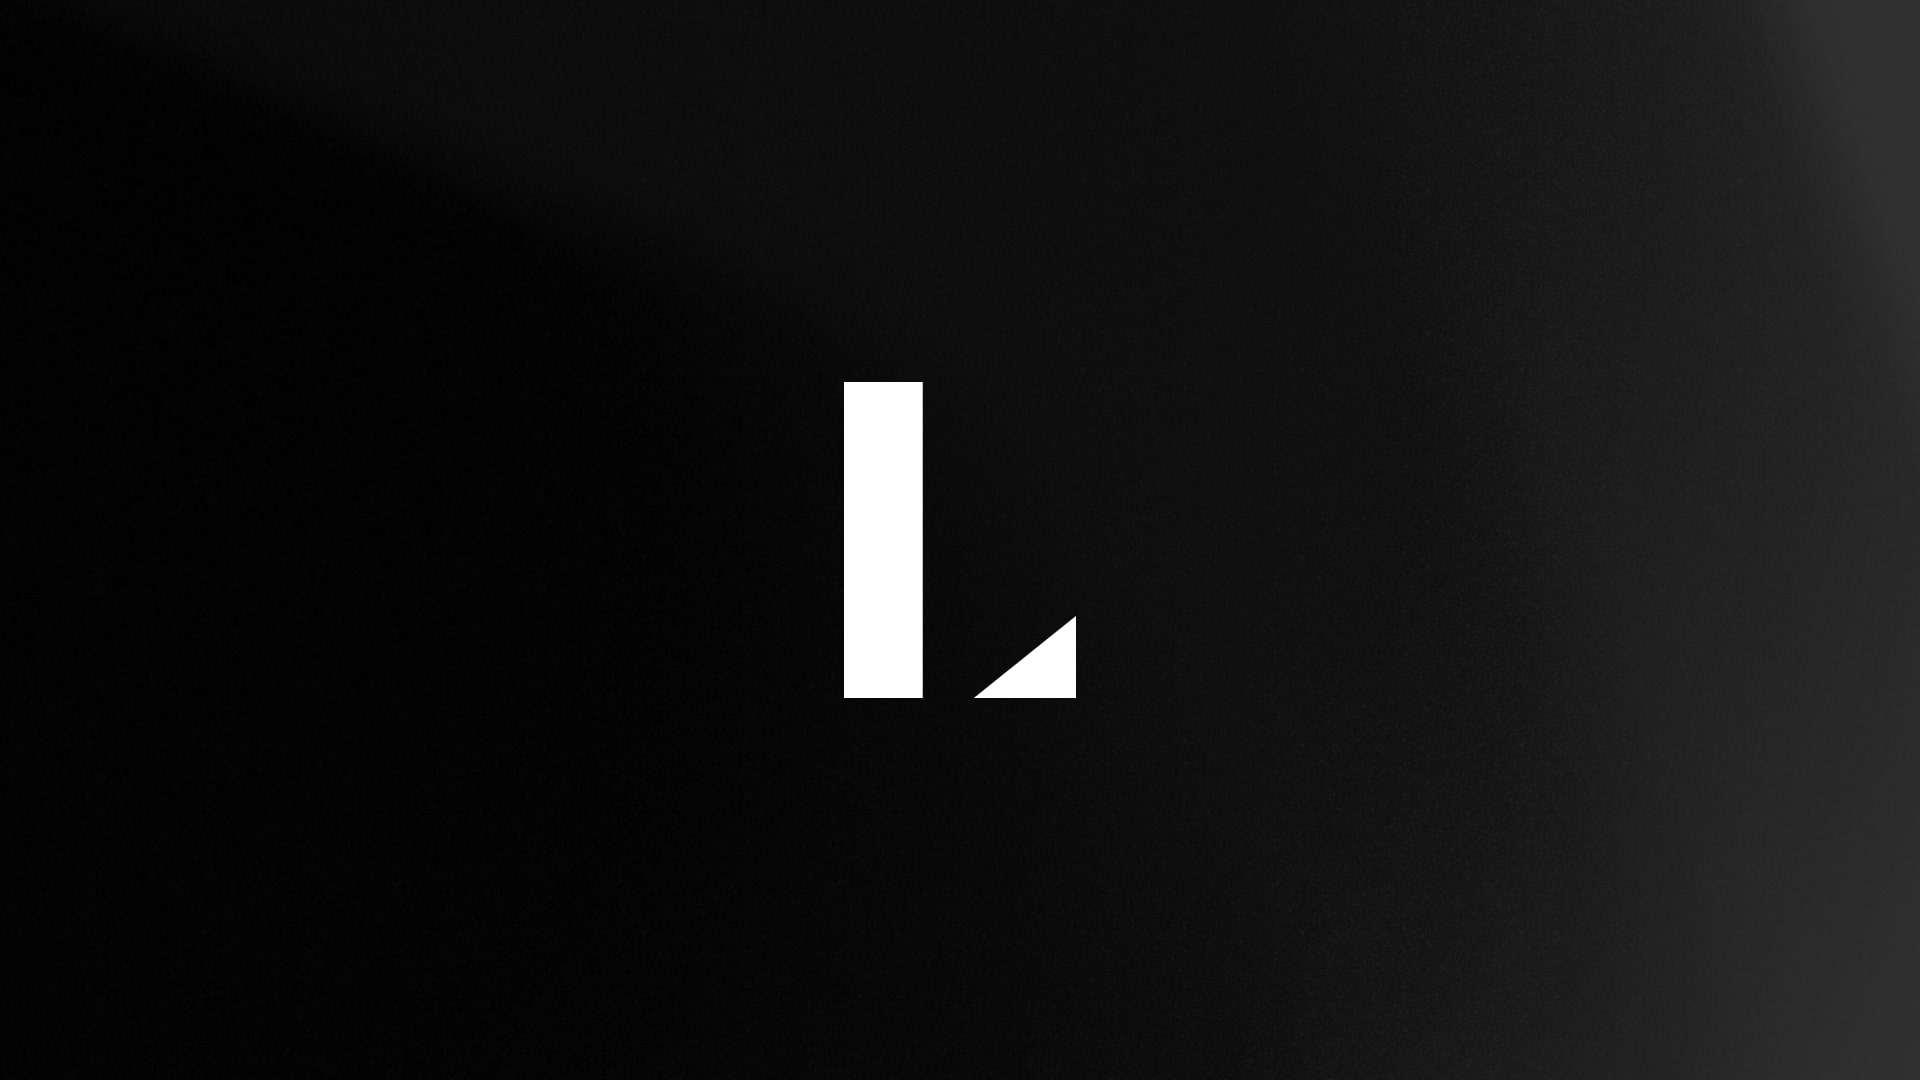
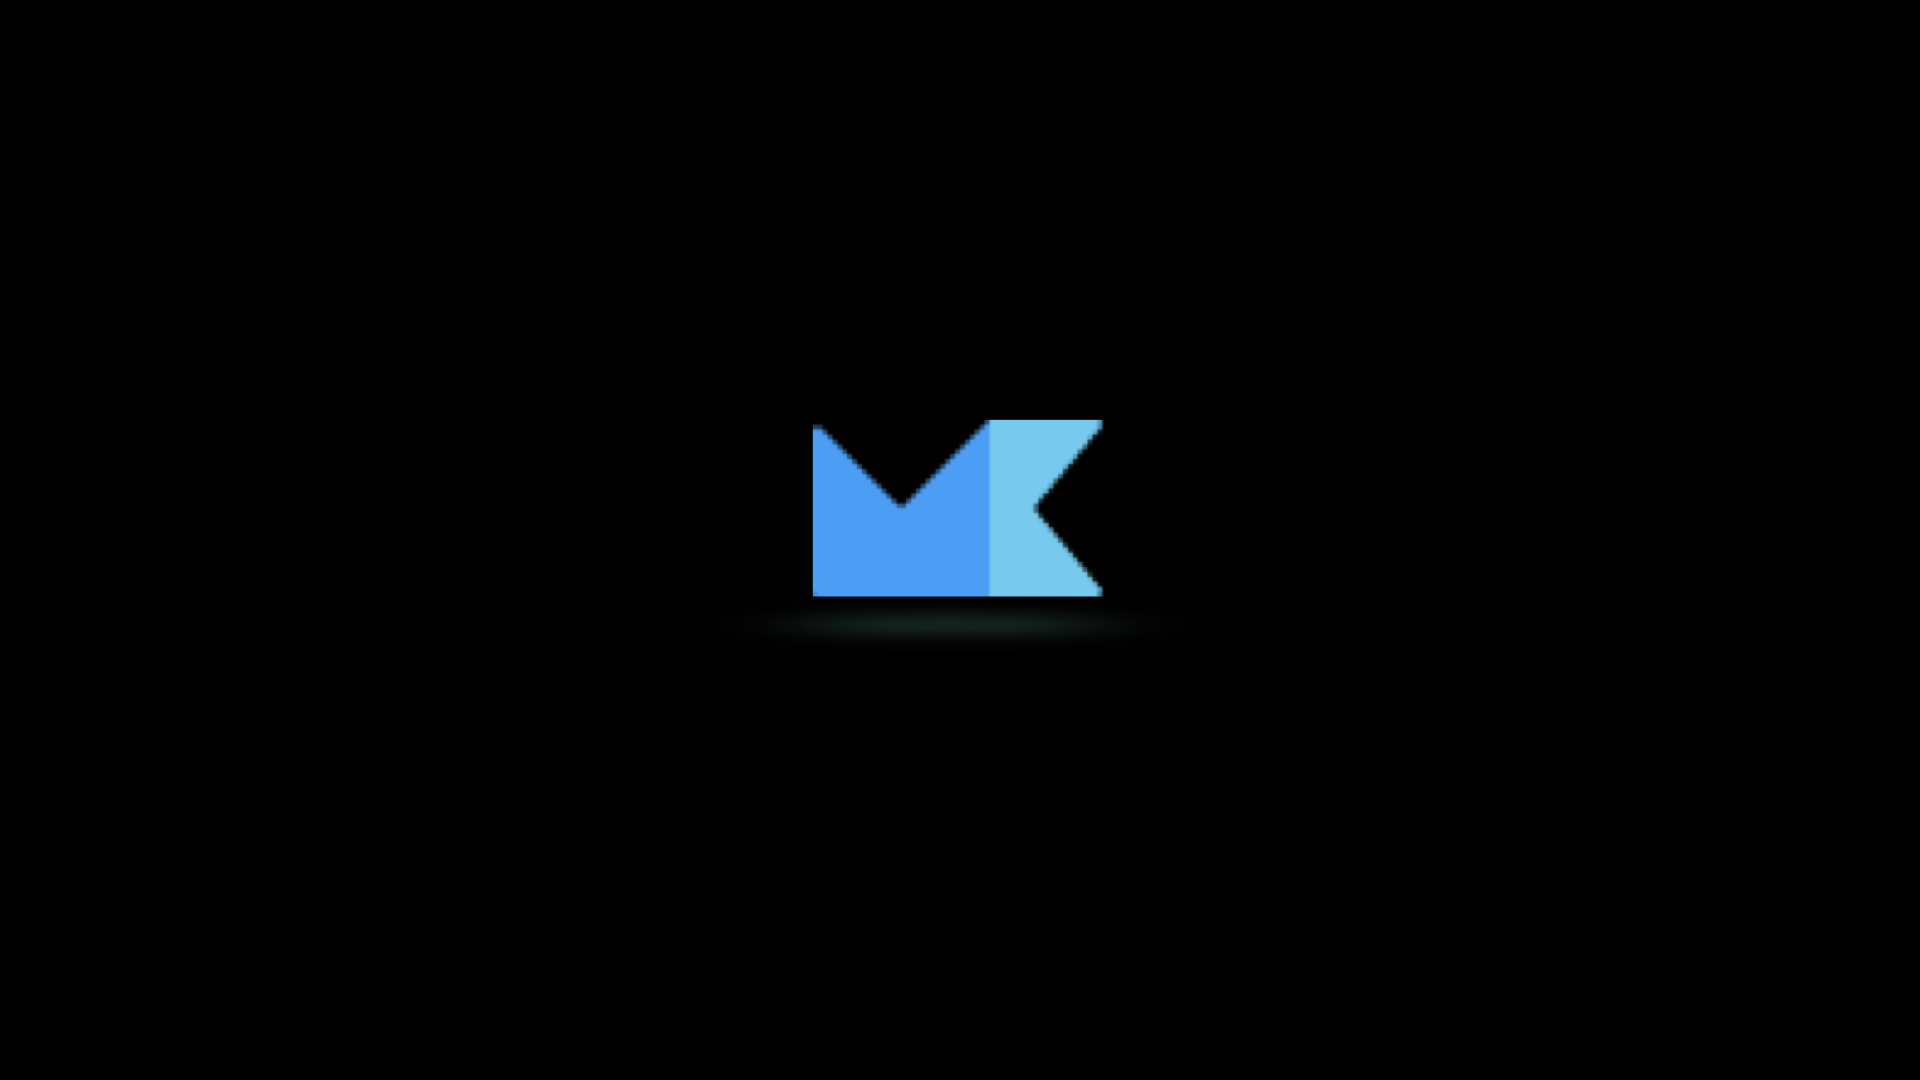
added books, arts and blogs

Changed region(s): [[0.7188, 0.0, 1.0, 1.0], [0.4062, 0.3361, 0.5938, 0.6722]]

diff --git a/app/about/page.tsx b/app/about/page.tsx
@@ -1,10 +1,74 @@
+import {
+  GitHubIcon,
+  YoutubeIcon,
+  ArrowIcon,
+  TwitterIcon,
+} from 'components/icons';
+
 export default function AboutPage() {
   return (
     <section>
       <h1 className="font-bold text-3xl font-serif">About Me</h1>
-      <p className="my-5 text-neutral-800 dark:text-neutral-200">
-        Sigh, I'm hibernating. Visit after the sloth season 🦥
-      </p>
+      
+      <div className="prose prose-neutral dark:prose-invert text-neutral-800 dark:text-neutral-200">
+        <p>
+        Hi there, My name is Manasa Kalaga and I'm a software developer. 
+        I'm from Hyderabad, India and currently working at NCR Corporation.
+        </p>
+        <hr />
+        <p>
+         On this page you can find some information about me and persuits I follow.
+         Most of them are about topics that I'm most interested in, such as backend architecture, 
+         microservices, CI/CD, or about programming languages like Python or Go. 
+        </p>
+        <p>
+         I'm very passionate about many creative persuits, which includes music, art,
+         books, cooking, cats and of course, coding. These combination of interests is what
+         makes me feel alive and pushes me to think differently. 
+        </p>
+        
+        <p>
+         While you are here, do check out my 2023 Reading List and arts collection. Thank you for visiting my page. 
+        </p>
+        <div className="flex flex-col gap-2 md:flex-row md:gap-2">
+          <a
+            rel="noopener noreferrer"
+            target="_blank"
+            href="https://twitter.com/mksighs"
+            className="flex w-full border border-neutral-200 dark:border-neutral-800 rounded-lg p-4 no-underline items-center text-neutral-800 dark:text-neutral-200 hover:dark:bg-neutral-900 hover:bg-neutral-100 transition-all justify-between"
+          >
+            <div className="flex items-center">
+              <TwitterIcon />
+              <div className="ml-3">Twitter</div>
+            </div>
+            <ArrowIcon />
+          </a>
+          <a
+            rel="noopener noreferrer"
+            target="_blank"
+            href="https://github.com/ikoala21"
+            className="flex w-full border border-neutral-200 dark:border-neutral-800 rounded-lg p-4 no-underline items-center text-neutral-800 dark:text-neutral-200 hover:dark:bg-neutral-900 hover:bg-neutral-100 transition-all justify-between"
+          >
+            <div className="flex items-center">
+              <GitHubIcon />
+              <div className="ml-3">GitHub</div>
+            </div>
+            <ArrowIcon />
+          </a>
+          <a
+            rel="noopener noreferrer"
+            target="_blank"
+            href="https://www.youtube.com/@manasa11"
+            className="flex w-full border border-neutral-200 dark:border-neutral-800 rounded-lg p-4 no-underline items-center text-neutral-800 dark:text-neutral-200 hover:dark:bg-neutral-900 hover:bg-neutral-100 transition-all justify-between"
+          >
+            <div className="flex items-center">
+              <YoutubeIcon />
+              <div className="ml-3">YouTube</div>
+            </div>
+            <ArrowIcon />
+          </a>
+        </div>
+      </div>
     </section>
   );
 }

diff --git a/app/books/page.tsx b/app/books/page.tsx
@@ -1,0 +1,33 @@
+export default function BooksPage() {
+ return (
+   <section>
+     <h1 className="font-bold text-3xl font-serif">2023 Reading List</h1>
+     
+     <div className="prose prose-neutral dark:prose-invert text-neutral-800 dark:text-neutral-200">
+       <p>
+       My reading for last year mostly considered easy books that I could finish in one sitting. 
+       </p>
+       <p>
+       This year will likely read fewer books but deeper content,
+       I dont have specific target. Averaging one or two per month is fairly manageable for me,
+       so that's probably where we will end up.
+       </p>
+       <hr />
+       <ol>
+           <li><h5><b>Tomorrow, and Tomorrow, and Tomorrow</b> by <i>Gabrielle Zevin</i></h5></li>
+           <p> <i>“There is a time for any fledgling artist where one's taste exceeds one's abilities.
+                The only way to get through this period is to make things anyway.” </i></p>
+           <li><h5><b>I Want to Die But I Want to Eat Tteokbokki</b> by <i>Baek Sehee</i></h5></li>
+           <p><i>"This book, therefore, ends not with answers but with a wish. 
+               I want to love and be loved. I want to find a way where I don't hurt myself. 
+               I want to live a life where I say things are good more than things are bad. 
+               I want to keep failing and discovering new and better directions. 
+               I want to enjoy the tides of feeling in me as the rhythms of life. 
+               I want to be the kind of person who can walk inside the vast darkness and 
+               find the one fragment of sunlight I can linger in for along time.
+               <br></br>Some day, I will."</i></p>
+       </ol>
+     </div>
+   </section>
+ );
+}

diff --git a/components/sidebar.tsx b/components/sidebar.tsx
@@ -18,12 +18,24 @@ const navItems = {
     y: 35,
     w: '65px',
   },
-  // '/blog': {
-  //   name: 'blog',
-  //   x: 127,
-  //   y: 69,
-  //   w: '56px',
-  // },
+  '/books': {
+    name: 'books',
+    x: 127,
+    y: 69,
+    w: '56px',
+  },
+  '/arts': {
+    name: 'arts',
+    x: 182,
+    y: 104,
+    w: '56px',
+  },
+  '/blogs': {
+    name: 'blogs',
+    x: 245,
+    y: 139,
+    w: '56px',
+  },
   // '/guestbook': {
   //   name: 'guestbook',
   //   x: 182,
@@ -57,19 +69,19 @@ function Logo() {
             type: 'spring',
             stiffness: 50,
           }}
-          d="M86 0L48 1.52588e-05V48H86L86 47.5001L61.2205 24.4558L86 3.99062e-05L86 0Z"
+          d="M36 0H57.865C58.7128 0 59.176 0.988857 58.6332 1.64018L45.5335 17.3598C45.2244 17.7307 45.2244 18.2693 45.5335 18.6402L58.6332 34.3598C59.176 35.0111 58.7128 36 57.865 36H36V0Z"
           clipRule="evenodd"
           fill="#56CCF2"
         />
         <motion.path
-          initial={{ x: -200, opacity: 0 }}
+          initial={{ x: -20, opacity: 0 }}
           animate={{ x: 0, opacity: 1 }}
           transition={{
             duration: 0.5,
             type: 'spring',
             stiffness: 50,
           }}
-          d="M0 0L0 48L48 48L48 1.71655e-06L24.4558 23.6903L0 0Z"
+          d="M0 2.41422C0 1.52331 1.07714 1.07714 1.70711 1.70711L17.2929 17.2929C17.6834 17.6834 18.3166 17.6834 18.7071 17.2929L36 0V36H1C0.447716 36 0 35.5523 0 35V2.41422Z"
           clipRule="evenodd"
           fill="#18A0FB"
         />

diff --git a/app/arts/page.tsx b/app/arts/page.tsx
@@ -1,0 +1,30 @@
+export default function ArtsPage() {
+    return (
+      <section>
+        <h1 className="font-bold text-3xl font-serif">Ichi-go Ichi-e</h1>
+        <br></br>
+        <p> Coming soon! While you are waiting here...</p>
+        
+        <div className="prose prose-neutral dark:prose-invert text-neutral-800 dark:text-neutral-200">
+        <hr />
+        <p><b> Concept of Motivation</b></p>
+        <p><i>
+        Every art piece, just like many life situations, constitutes a unique and unrepeatable moment. 
+        Each feeling is different every time, and one who makes it will share an instant that will never happen again. 
+        Each experience is an “Ichi-go ichi-e moment,” that one can treasure as something that occurs "once in a lifetime". </i></p>
+        
+        <p><b> Prologue</b></p>
+          <p><i>
+          Its not the beginnings or the end that shapes us the person we are,
+          its the in-betweens… because they are the roller-coaster of emotions - sad, happy, anxious, depressed, heartbroken, hope. 
+          And forever the question of what-ifs, all these emotions portray the beauty of the process, and the time it takes. 
+          To able to cherish those in-betweens is all my art collection will be about - “ichi-go ichi-e”. 
+          </i></p>
+          
+          
+
+        </div>
+      </section>
+    );
+   }
+   

diff --git a/lib/info.tsx b/lib/info.tsx
@@ -5,14 +5,15 @@ export const avatar = me;
 export const about = () => {
   return (
     <>
-      Hey, I'm a developer building software one mistake at a time. I work at NCR Corp as a Software Engineer.
+      Hey, I'm a software developer and an artist. I work at NCR Corporation as a Software Engineer.
     </>
   );
 };
 export const bio = () => {
   return (
     <>
-      When I'm not sleeping, I'm probably shitposting or making mistakes. I also love to travel and explore new places.
+      When I'm not working, I'm probably finding my next read or maintaining my duolingo streak.
+      I also love exploring good food places.
     </>
   );
 };

diff --git a/app/blogs/page.tsx b/app/blogs/page.tsx
@@ -1,0 +1,15 @@
+export default function ArtsPage() {
+    return (
+      <section>
+        <h1 className="font-bold text-3xl font-serif">Blogs</h1>
+        <br></br>
+        
+        
+        <div className="prose prose-neutral dark:prose-invert text-neutral-800 dark:text-neutral-200">
+        <hr />
+        <p>👀 Coming soon!</p>
+        </div>
+      </section>
+    );
+   }
+   

diff --git a/app/page.tsx b/app/page.tsx
@@ -16,7 +16,7 @@ export const metadata = {
     title: 'Manasa',
     description: 'Developer, writer, and creator.',
     url: 'https://leerob.io',
-    siteName: 'Manasa',
+    siteName: 'Manasa | Personal Website',
     images: [
       {
         url: 'https://leerob.io/og.jpg',

diff --git a/app/metadata.tsx b/app/metadata.tsx
@@ -1,6 +1,6 @@
 export default {
   title: {
-    default: 'Manasa',
+    default: 'MK | Personal Website',
     template: '%s | Manasa',
   },
   robots: {
